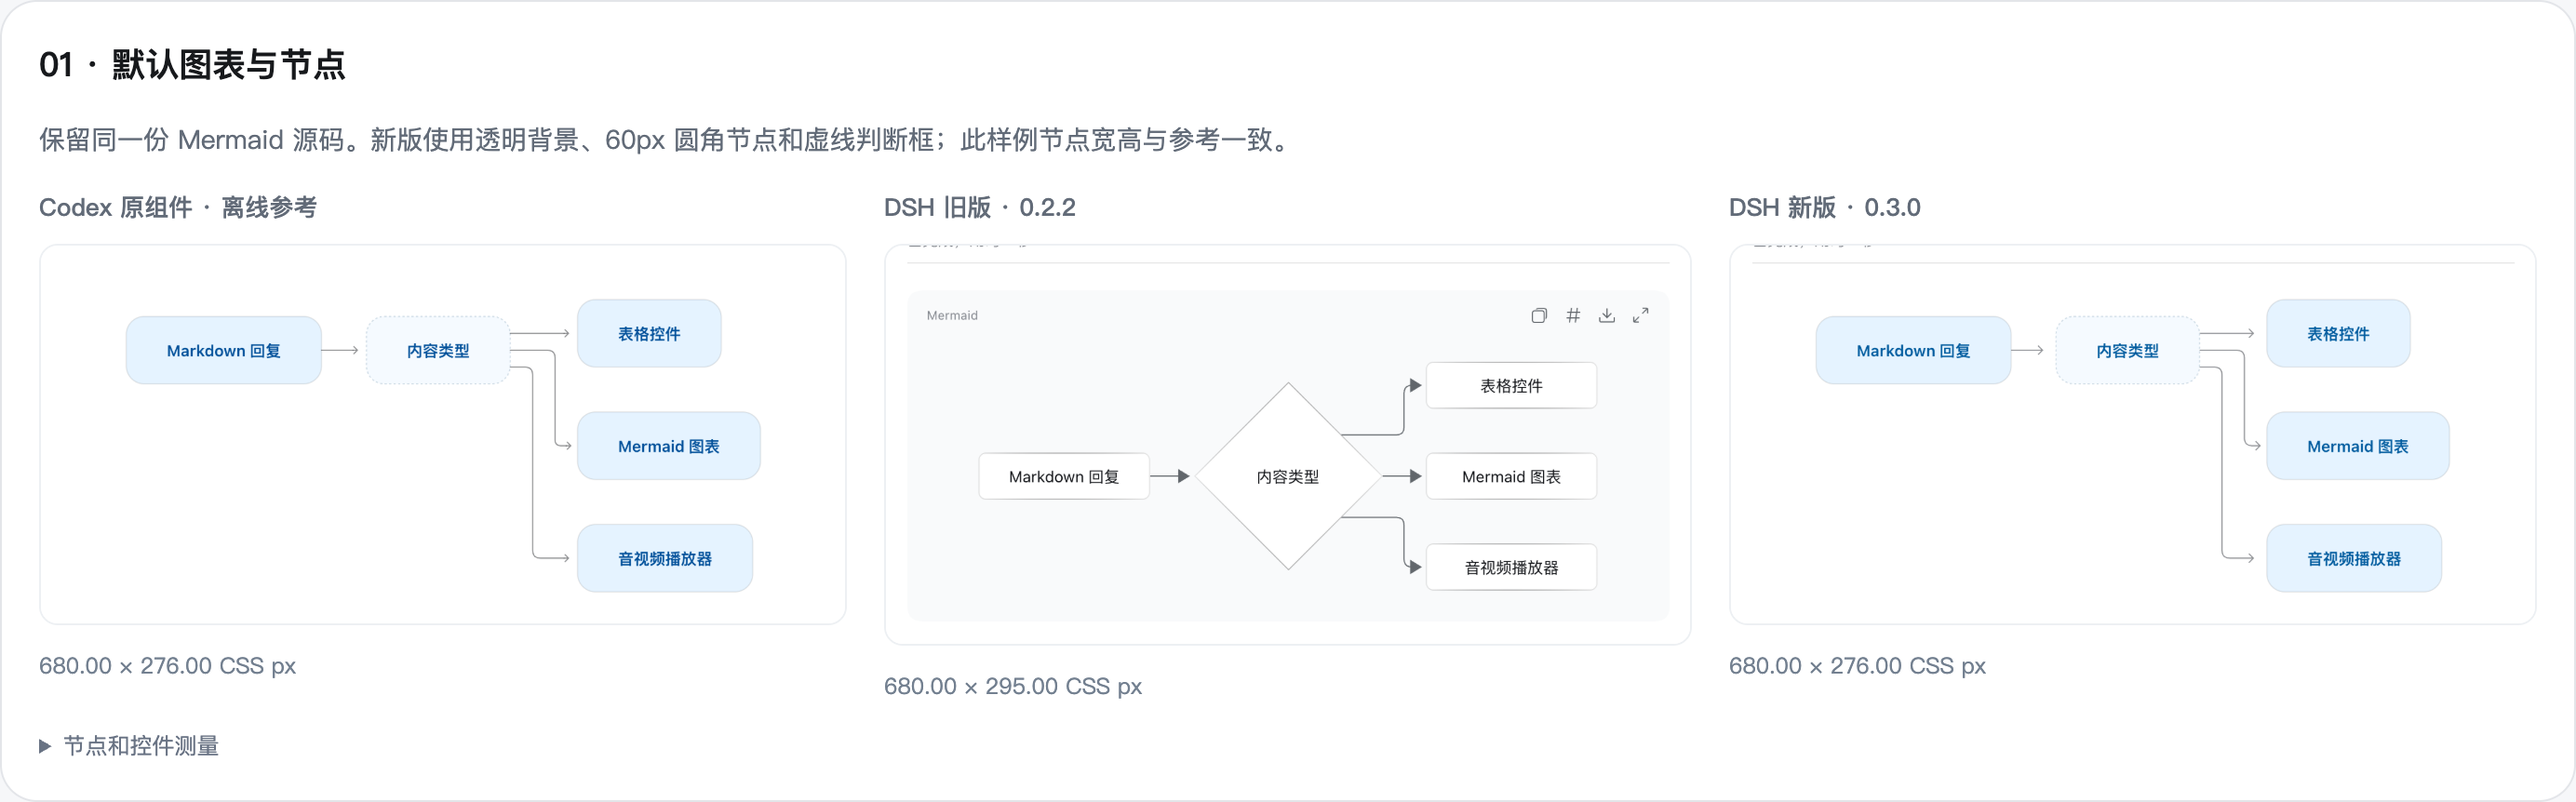
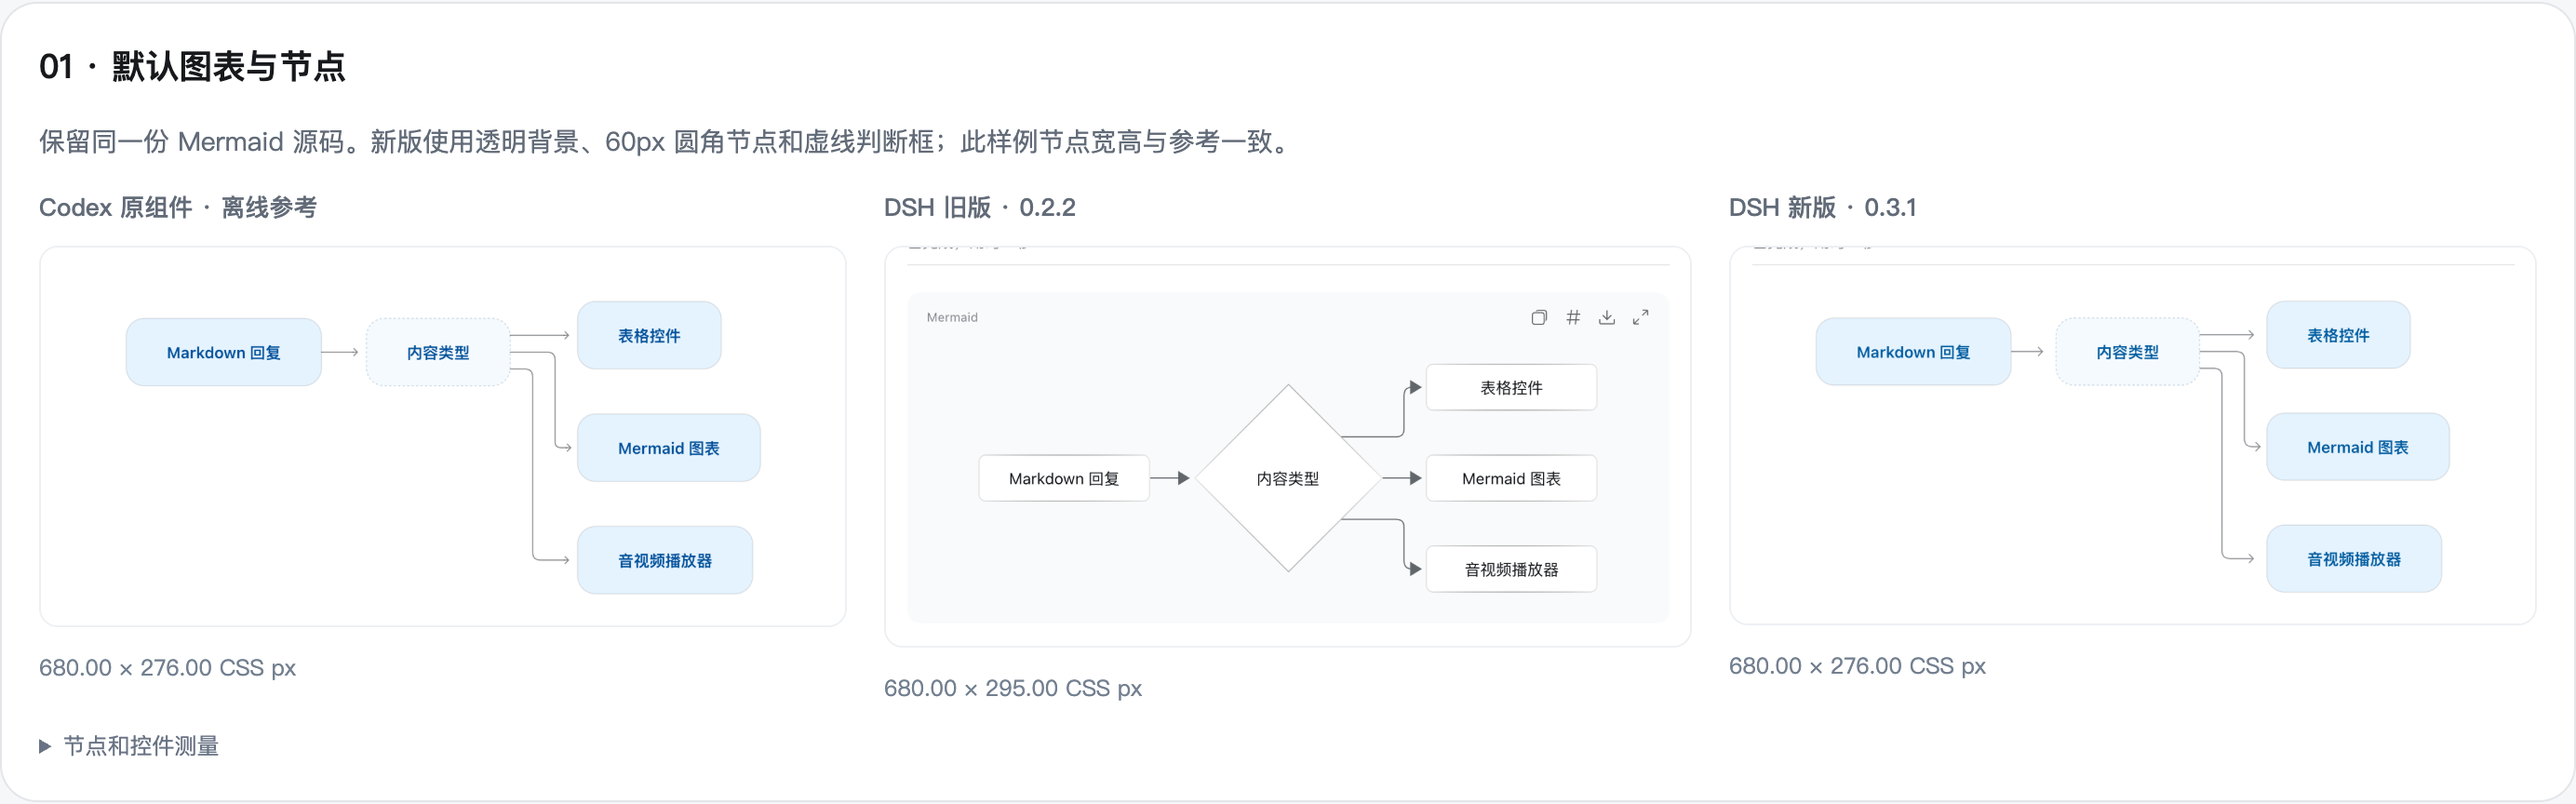
fix: 统一使用 DSH 原生预览弹窗
图表与表格复用宿主 Modal，删除自绘全屏遮罩、关闭动画与焦点管理，保留缩放、平移和下载功能。

更新原生弹窗截图、演示及仓库约定，验证遮罩关闭、Escape、焦点循环、连续启停和两种加载顺序冷启动。

diff --git a/src/styles.css b/src/styles.css
@@ -10,11 +10,10 @@
 .dcr-actions { display: flex; align-items: center; gap: 2px; flex: none; }
 
 /* Only size the native Modal; its chrome, mask and focus handling remain native. */
-.dcr-dialog { width: min(960px, calc(100vw - 48px)); max-height: 100%; }
+.dcr-dialog { width: min(960px, 100%); max-height: 100%; }
 .dcr-dialog.dcr-table-dialog { width: fit-content; min-width: min(420px, calc(100vw - 48px)); max-width: min(1100px, calc(100vw - 48px)); }
 .dcr-preview-actions { position: absolute; top: 22px; right: 48px; }
 .dcr-dialog-body { min-height: 0; max-height: min(70vh, 680px); overflow: auto; overscroll-behavior: contain; }
-.dcr-dialog.dcr-closing { animation: dcr-close 160ms var(--ds-ease-in-out, ease) forwards; }
 .dcr-preview-table { width: max-content; min-width: 100%; border-collapse: collapse; }
 .dcr-preview-table th { position: sticky; top: 0; z-index: 1; background: var(--dsw-alias-bg-layer-2); }
 .dcr-preview-table button { cursor: pointer; }
@@ -30,30 +29,20 @@
 .dcr-graph-source { margin: 0; padding: 44px 16px 16px; border-radius: var(--dsw-radius-lg,12px); background: var(--dsw-alias-markdown-code-block); font: var(--dsw-font-markdown-code-block); white-space: pre-wrap; overflow-wrap: anywhere; }
 .dcr-status { margin: 0; padding: 8px 0; color: var(--dsw-alias-label-secondary); font: 12px/18px var(--dsw-font-family); }
 .dcr-graph-notice { position: absolute; bottom: 0; left: 0; }
-.dcr-graph-viewer { box-sizing: border-box; position: fixed; inset: 0; width: 100vw; height: 100dvh; max-width: none; max-height: none; margin: 0; padding: 48px 32px 96px; border: 0; background: #181818; color: #1a1c1f; overflow: hidden; animation: dcr-graph-open 160ms ease-out both; }
-.dcr-graph-viewer::backdrop { background: #181818; }
-.dcr-graph-viewer-actions { position: absolute; top: 12px; right: 12px; display: flex; gap: 8px; }
-.dcr-graph-viewer .dcr-control-graph { width: 40px; height: 40px; background: #ffffff59; color: #1a1c1f; }
-.dcr-graph-viewer .dcr-control-graph:hover:not(:disabled) { background: #ffffff80; }
-.dcr-graph-canvas { display: flex; align-items: center; justify-content: center; height: 100%; border-radius: 18px; background: var(--dsw-alias-bg-layer-2); overflow: hidden; cursor: grab; touch-action: none; user-select: none; }
+.dcr-graph-canvas { display: flex; align-items: center; justify-content: center; height: min(480px, 55vh); overflow: hidden; cursor: grab; touch-action: none; user-select: none; }
 .dcr-graph-dragging { cursor: grabbing; }
-.dcr-graph-image { flex: none; max-width: calc(100% - 32px); max-height: calc(100% - 32px); display: flex; align-items: center; justify-content: center; transform-origin: center; }
-.dcr-graph-image > svg { display: block; width: auto; height: auto; max-width: 100%; max-height: calc(100dvh - 176px); pointer-events: none; }
-.dcr-graph-zoom { position: absolute; bottom: 32px; left: 50%; transform: translateX(-50%); display: flex; align-items: center; gap: 4px; padding: 4px; border-radius: 9999px; background: #ffffff59; }
-.dcr-graph-zoom .dcr-control-graph { width: 36px; height: 36px; background: #0000000d; }
-.dcr-zoom { width: 64px; border: 0; padding: 0; background: none; color: inherit; font: 13px/20px var(--dsw-font-family); cursor: default; }
-.dcr-graph-viewer-closing { animation: dcr-graph-close 160ms ease-in forwards; pointer-events: none; }
-@keyframes dcr-graph-open { from { opacity: 0; } }
-@keyframes dcr-graph-close { to { opacity: 0; } }
+.dcr-graph-image { flex: none; max-width: calc(100% - 32px); max-height: 100%; display: flex; align-items: center; justify-content: center; transform-origin: center; }
+.dcr-graph-image > svg { display: block; width: auto; height: auto; max-width: 100%; max-height: min(480px, 55vh); pointer-events: none; }
+.dcr-graph-zoom { display: flex; align-items: center; gap: 4px; }
+.dcr-zoom { min-width: 64px; }
 @media (hover: none) { .dcr-graph-tools { opacity: 1; pointer-events: auto; } }
-@media (prefers-reduced-motion: reduce) { .dcr-graph-tools { transition: none; } .dcr-graph-viewer { animation: none; } }
+@media (prefers-reduced-motion: reduce) { .dcr-graph-tools { transition: none; } }
 /* Match General Settings' native DeveloperToolsRow geometry. */
 .dcr-setting-row { display: flex; justify-content: space-between; align-items: center; gap: 24px; padding: 16px 0; border-bottom: .5px solid var(--dsw-alias-border-l2); }
 .dcr-setting-title { font-size: 14px; line-height: 20px; font-weight: 400; }
 .dcr-setting-description { margin-top: 4px; color: var(--dsw-alias-label-secondary); font-size: 12px; line-height: 18px; }
-@keyframes dcr-close { to { opacity: 0; } }
 @media (hover: none) { .dcr-table-tools { opacity: 1; pointer-events: auto; } }
-@media (prefers-reduced-motion: reduce) { .dcr-closing { animation: none !important; } .dcr-table-tools { transition: none; } }
+@media (prefers-reduced-motion: reduce) { .dcr-table-tools { transition: none; } }
 
 /* Widget controls have their own geometry; General Settings keeps DSH's primitives. */
 .dcr-media, .dcr-tooltip, .dcr-menu, .dcr-mermaid {

diff --git a/src/mermaid.jsx b/src/mermaid.jsx
@@ -1,6 +1,7 @@
 import React,{useState,useEffect,useLayoutEffect,useRef} from 'react';
-import {createPortal} from 'react-dom';
-import {Action,Menu} from './controls.jsx';
+import {Button,Tooltip} from '@deepseek-ai/dsh-client-ui-primitives';
+import {PreviewModal} from './preview.jsx';
+import {Action,Menu,Icon} from './controls.jsx';
 import {renderDiagram} from './mermaid-render.js';
 
 function save(blob,name){const url=URL.createObjectURL(blob),a=document.createElement('a');a.href=url;a.download=name;a.click();setTimeout(()=>URL.revokeObjectURL(url),1000);}
@@ -14,25 +15,26 @@ async function downloadImage(svg,dark){
   }finally{URL.revokeObjectURL(url);}
 }
 
+function ViewerButton({label,icon,onClick,disabled}){
+  return <Tooltip label={label} side="top" delayMs={350} portal disabled={disabled}><Button variant="ghost" size="sm" className="dcr-action" aria-label={label} disabled={disabled} onClick={onClick}><Icon name={icon} size={16}/></Button></Tooltip>;
+}
+
 function Viewer({svg,onClose,onDownload}){
-  const dialog=useRef(),viewport=useRef(),drag=useRef(),timer=useRef(),[closing,setClosing]=useState(false),[zoom,setZoom]=useState(1),[offset,setOffset]=useState({x:0,y:0}),[dragging,setDragging]=useState(false);
-  const close=()=>{if(closing)return;setClosing(true);timer.current=setTimeout(onClose,matchMedia('(prefers-reduced-motion: reduce)').matches?0:160);};
-  useLayoutEffect(()=>{
-    const previous=document.activeElement;dialog.current.showModal();dialog.current.querySelector('[aria-label="关闭图表预览"]').focus();
-    return()=>{clearTimeout(timer.current);dialog.current?.close();previous?.focus({preventScroll:true});};
-  },[]);
+  const drag=useRef(),[zoom,setZoom]=useState(1),[offset,setOffset]=useState({x:0,y:0}),[dragging,setDragging]=useState(false);
   const adjust=value=>setZoom(current=>Math.min(4,Math.max(.25,current+value)));
-  return createPortal(<dialog ref={dialog} data-dcr-ui="" aria-label="图表预览" className={`dcr-graph-viewer${closing?' dcr-graph-viewer-closing':''}`} onCancel={event=>{event.preventDefault();close();}} onKeyDown={event=>{
-    if(['+','=','-','0'].includes(event.key)&&!event.ctrlKey&&!event.metaKey){event.preventDefault();if(event.key==='0'){setZoom(1);setOffset({x:0,y:0});}else adjust(event.key==='-'?-.25:.25);}
-  }}>
-    <div className="dcr-graph-viewer-actions"><Action variant="graph" label="下载图像" icon="download" onClick={onDownload}/><Action variant="graph" label="关闭图表预览" icon="close" onClick={close}/></div>
-    <div ref={viewport} className={`dcr-graph-canvas${dragging?' dcr-graph-dragging':''}`} onPointerDown={event=>{
+  const reset=()=>{setZoom(1);setOffset({x:0,y:0});};
+  return <PreviewModal title="图表预览" className="dcr-graph-dialog" onClose={onClose}
+    actions={<ViewerButton label="下载图像" icon="download" onClick={onDownload}/>}
+    footer={<div className="dcr-graph-zoom"><ViewerButton label="缩小图表" icon="minus" disabled={zoom<=.25} onClick={()=>adjust(-.25)}/><Button variant="ghost" size="sm" className="dcr-zoom" aria-label="重置图表缩放" onClick={reset}>{Math.round(zoom*100)}%</Button><ViewerButton label="放大图表" icon="plus" disabled={zoom>=4} onClick={()=>adjust(.25)}/></div>}
+    onKeyDownCapture={event=>{
+      if(['+','=','-','0'].includes(event.key)&&!event.ctrlKey&&!event.metaKey){event.preventDefault();if(event.key==='0')reset();else adjust(event.key==='-'?-.25:.25);}
+    }}>
+    <div className={`dcr-graph-canvas${dragging?' dcr-graph-dragging':''}`} onPointerDown={event=>{
       if(event.button!==0)return;drag.current={x:event.clientX,y:event.clientY,offset};event.currentTarget.setPointerCapture(event.pointerId);setDragging(true);
     }} onPointerMove={event=>{if(drag.current)setOffset({x:drag.current.offset.x+event.clientX-drag.current.x,y:drag.current.offset.y+event.clientY-drag.current.y});}} onPointerUp={()=>{drag.current=null;setDragging(false);}} onPointerCancel={()=>{drag.current=null;setDragging(false);}} onLostPointerCapture={()=>{drag.current=null;setDragging(false);}}>
       <div className="dcr-graph-image" style={{transform:`translate(${offset.x}px,${offset.y}px) scale(${zoom})`}} dangerouslySetInnerHTML={{__html:svg}}/>
     </div>
-    <div className="dcr-graph-zoom"><Action variant="graph" label="缩小图表" icon="minus" disabled={zoom<=.25} onClick={()=>adjust(-.25)}/><button className="dcr-zoom" type="button" aria-label="重置图表缩放" onClick={()=>{setZoom(1);setOffset({x:0,y:0});}}>{Math.round(zoom*100)}%</button><Action variant="graph" label="放大图表" icon="plus" disabled={zoom>=4} onClick={()=>adjust(.25)}/></div>
-  </dialog>,document.body);
+  </PreviewModal>;
 }
 
 export function MermaidCard({code}){

diff --git a/src/components.jsx b/src/components.jsx
@@ -1,7 +1,8 @@
 import React,{useState,useEffect,useLayoutEffect,useRef} from 'react';
-import {Button,Tooltip,Modal as DshModal,IconCopyOutlineRegular,IconFullscreenOutlineRegular,IconCloseOutlineRegular,IconCheckOutlineRegular,IconDownloadOutlineRegular,IconCodeOutlineRegular,IconPlayOutlineRegular,IconPauseOutlineRegular,IconPlusOutlineRegular,IconRightUpOutlineRegular} from '@deepseek-ai/dsh-client-ui-primitives';
+import {Button,Tooltip,IconCopyOutlineRegular,IconFullscreenOutlineRegular,IconCloseOutlineRegular,IconCheckOutlineRegular,IconDownloadOutlineRegular,IconCodeOutlineRegular,IconPlayOutlineRegular,IconPauseOutlineRegular,IconPlusOutlineRegular,IconRightUpOutlineRegular} from '@deepseek-ai/dsh-client-ui-primitives';
 import {Action as MediaAction,Icon as MediaIcon,Menu} from './controls.jsx';
 import {tableClipboard} from './core.js';
+import {PreviewModal as Modal} from './preview.jsx';
 
 export function Icon({name}) {
   const Native={copy:IconCopyOutlineRegular,expand:IconFullscreenOutlineRegular,close:IconCloseOutlineRegular,check:IconCheckOutlineRegular,download:IconDownloadOutlineRegular,code:IconCodeOutlineRegular,play:IconPlayOutlineRegular,pause:IconPauseOutlineRegular,plus:IconPlusOutlineRegular,external:IconRightUpOutlineRegular}[name];
@@ -27,15 +28,6 @@ export function Copy({getValue,label='复制'}) {
     clearTimeout(timer.current);timer.current=setTimeout(()=>setStatus('idle'),1600);
   };
   return <Action label={status==='copied'?'已复制':status==='error'?'复制失败，点击重试':label} icon={status==='copied'?'check':'copy'} onClick={copy}/>;
-}
-
-export function Modal({title,children,actions,onClose,className=''}) {
-  const timer=useRef(),[closing,setClosing]=useState(false);
-  useEffect(()=>()=>clearTimeout(timer.current),[]);
-  const close=()=>{if(closing)return;setClosing(true);timer.current=setTimeout(onClose,matchMedia('(prefers-reduced-motion: reduce)').matches?0:160);};
-  return <DshModal open onClose={close} title={title} closeLabel="关闭预览" className={`dcr-dialog ${className}${closing?' dcr-closing':''}`}>
-    <div className="dcr-preview-actions dcr-actions">{actions}</div><div className="dcr-dialog-body">{children}</div>
-  </DshModal>;
 }
 
 function TablePreview({table}) {

diff --git a/src/preview.jsx b/src/preview.jsx
@@ -1,0 +1,10 @@
+import React from 'react';
+import {Modal} from '@deepseek-ai/dsh-client-ui-primitives';
+
+// The host owns the mask, dialog chrome, keyboard handling and return focus.
+export function PreviewModal({title,children,actions,footer,onClose,className='',onKeyDownCapture}){
+  return <Modal open onClose={onClose} title={title} closeLabel="关闭预览" footer={footer} onKeyDownCapture={onKeyDownCapture} className={`dcr-dialog ${className}`}>
+    {actions&&<div className="dcr-preview-actions dcr-actions">{actions}</div>}
+    <div className="dcr-dialog-body" data-dcr-ui="">{children}</div>
+  </Modal>;
+}

diff --git a/README.md b/README.md
@@ -25,11 +25,11 @@
 
 自动识别 `mermaid` 代码块。流程图采用 ELK 布局、60px 圆角节点、虚线判断框与细折线，支持浅色和深色外观。
 
-悬停时显示「图表选项」和「展开图表」。菜单提供源码切换、原始源码复制和两倍分辨率 PNG 下载。展开后可以拖动图表，使用底部控件缩放，按 Esc 关闭；窗口大小保持固定。
+悬停时显示「图表选项」和「展开图表」。菜单提供源码切换、原始源码复制和两倍分辨率 PNG 下载。展开预览使用 DSH 原生弹窗的遮罩、标题栏和关闭按钮。弹窗内可以拖动图表、使用底部控件缩放，按 Esc 或点击遮罩关闭；缩放时窗口大小保持固定。
 
 ![Mermaid 图表](assets/mermaid.png)
 
-![Mermaid 悬停菜单与源码切换演示](assets/mermaid-demo.gif)
+![Mermaid 菜单与原生预览弹窗演示](assets/mermaid-demo.gif)
 
 同一份源码的节点、菜单、预览、窄容器与深色外观，对照见 [Mermaid 校准记录](docs/codex-mermaid-parity.md)。
 
@@ -56,7 +56,7 @@ npm pack
 安装到桌面端：
 
 ```sh
-dsh plugin --profile desktop add "$PWD/deepseekharness-plugin-dsh-codex-renderer-0.3.0.tgz"
+dsh plugin --profile desktop add "$PWD/deepseekharness-plugin-dsh-codex-renderer-0.3.1.tgz"
 ```
 
 然后在 DSH 的「插件」页面确认「回复渲染增强」已启用。

diff --git a/AGENTS.md b/AGENTS.md
@@ -14,3 +14,7 @@
 通过 DSH 插件接口增强回复，不修改会话内容、模型请求或 DSH 安装包。
 样式与事件必须由本插件持有并在停止时清理。
 运行 `npm run check` 验证真实 DSH 宿主中的渲染、交互与启停。
+
+## 弹窗组件
+
+带遮罩的预览、详情、编辑或确认弹窗应复用 DSH 原生 `Modal` 或对应原生组件。遮罩、标题栏、关闭按钮、键盘处理与焦点恢复交给宿主；插件仅提供内容、操作与必要尺寸，不自行实现这类浮层。
